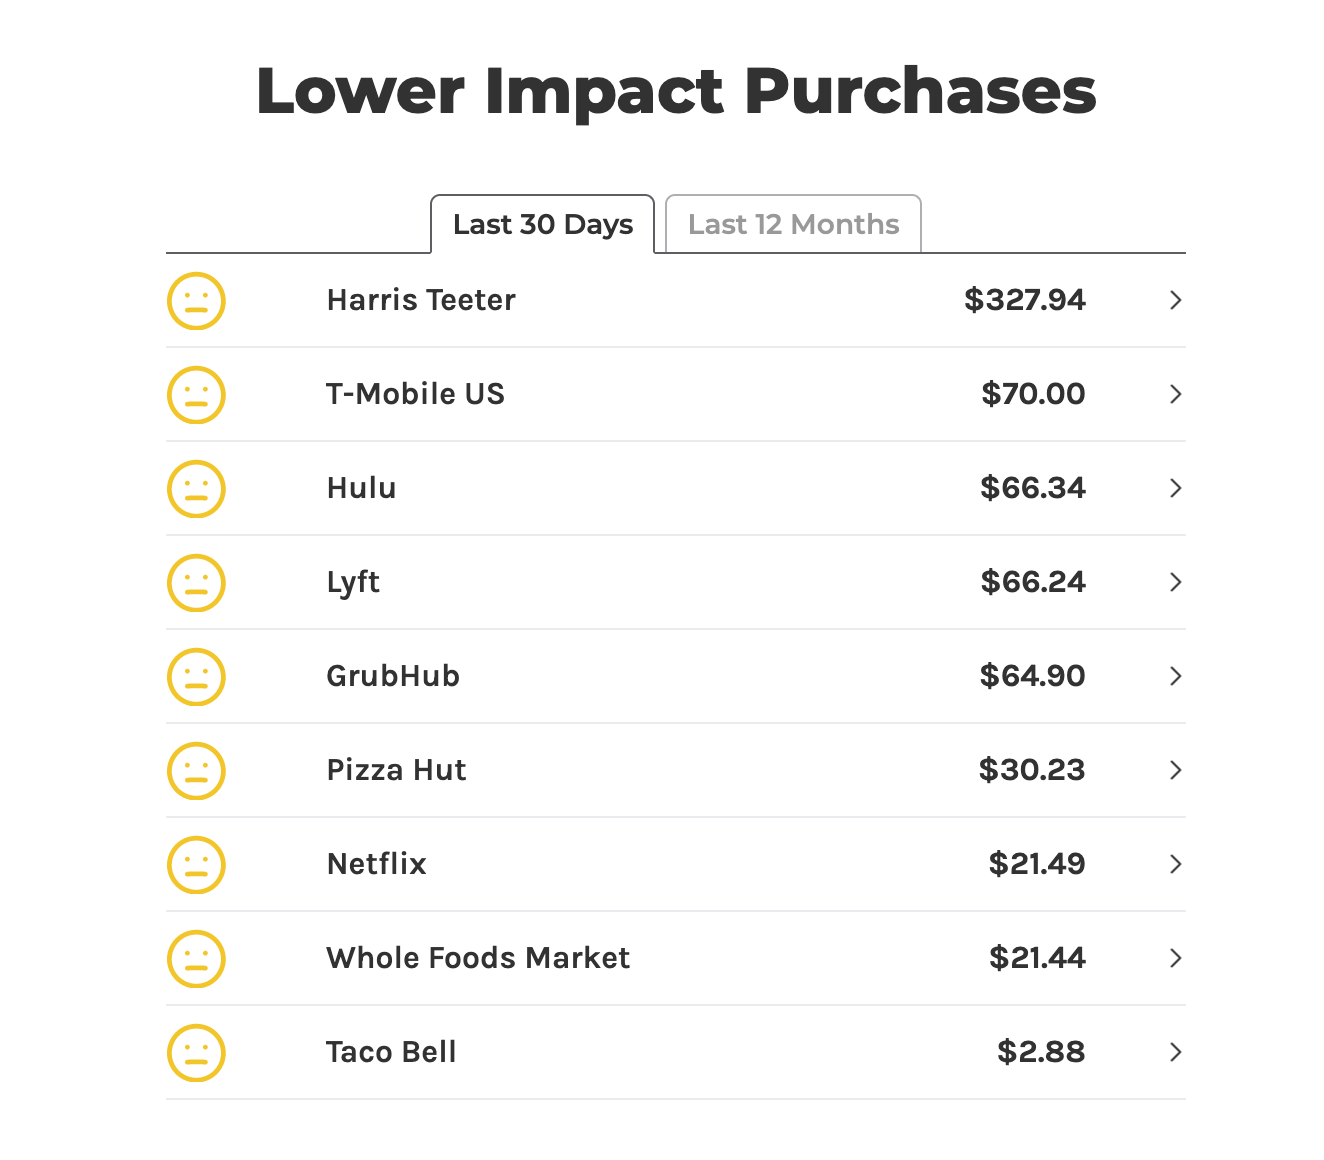
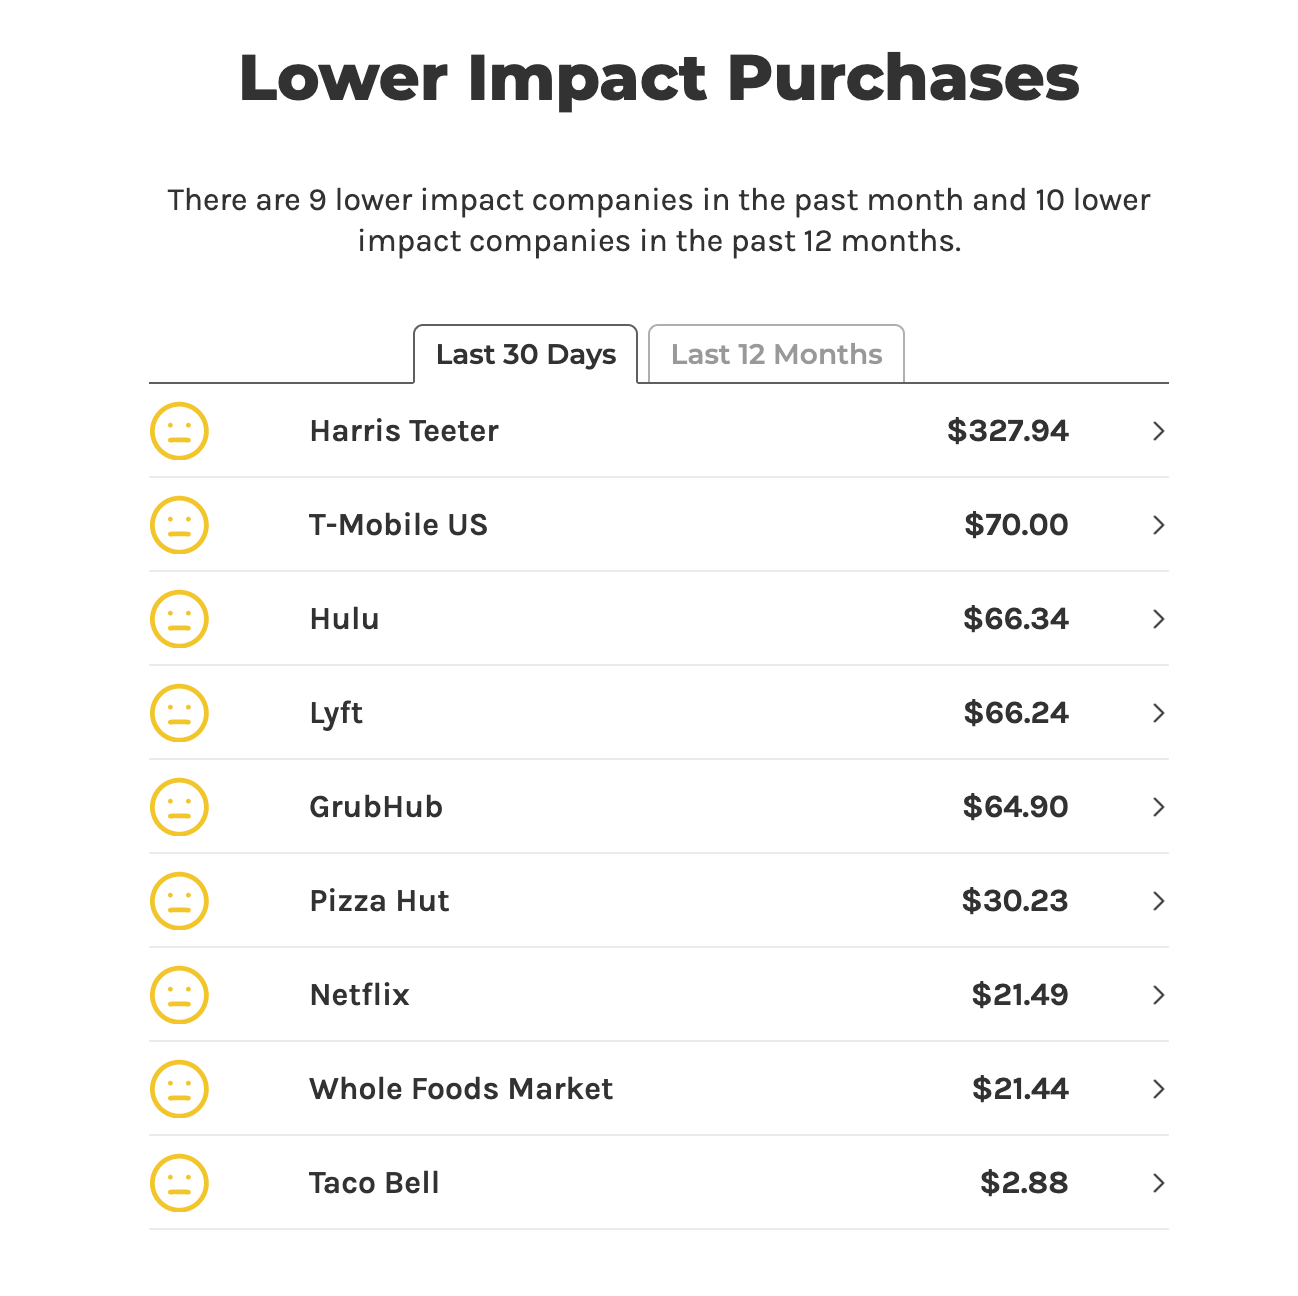
updates the challenge to include subtext

diff --git a/src/components/Directions/index.jsx b/src/components/Directions/index.jsx
@@ -10,7 +10,8 @@ export const Directions = () => {
         <div className='directions-text'>
           <ol>
             <li>In this exercise, you will be recreating the table in the image. Place all of your code inside of the Lower Impact Purchases component.</li>
-            <li>In the data.js file in the LowerImpactPurchases folder, you should see all the data you need to create the 30 days and one year tabs.</li>
+            <li>In the data.js file in the LowerImpactPurchases folder, you should see all the data you need to create the 30 days and last 12 months tabs.</li>
+            <li>The subtext below the header should dynamically display the number of rows in each table.</li>
             <li>Clicking on a row should take the user to the website for the company.</li>
             <li>Clicking on a tab should take the user between the two views.</li>
             <li>Amounts should be rounded to two decimal places like a dollar amount.</li>
